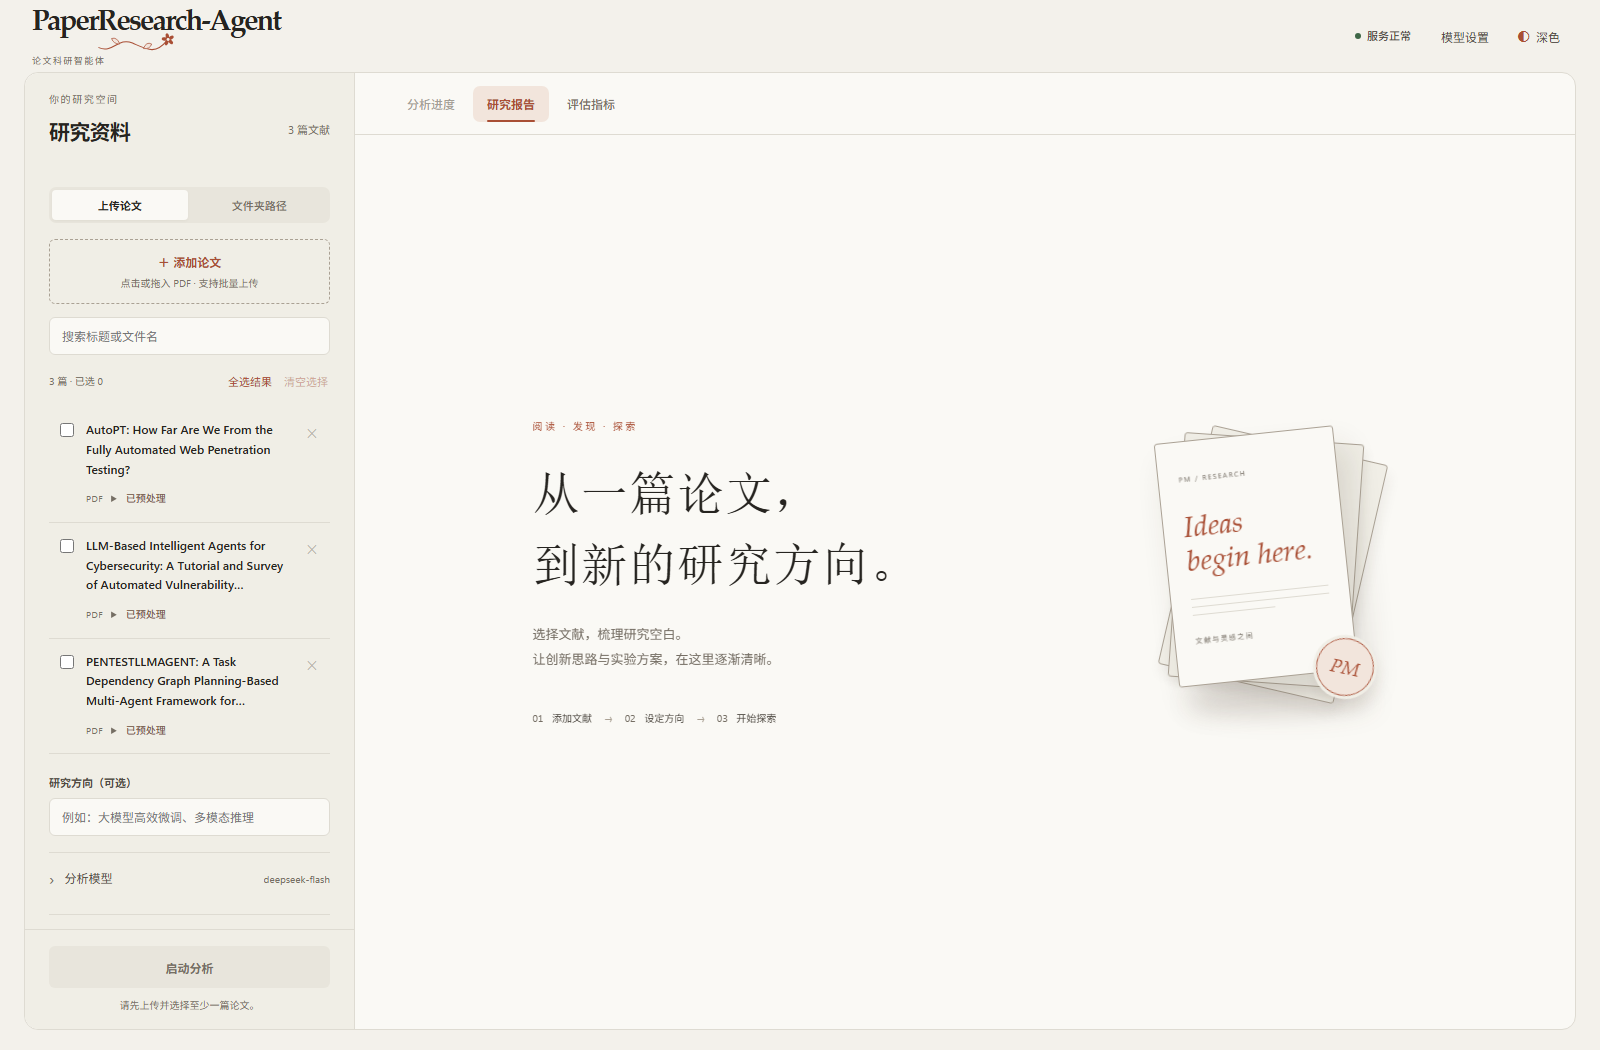
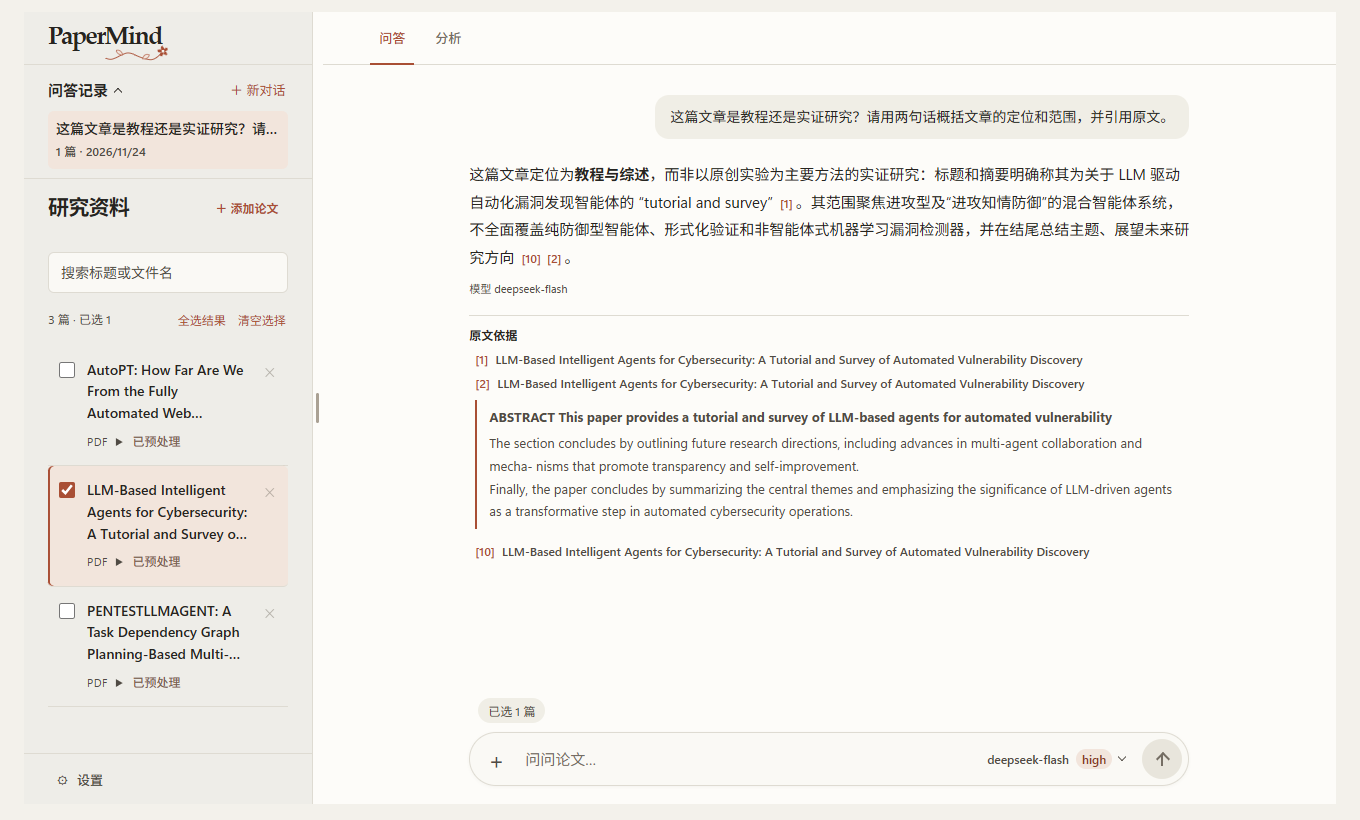
docs: streamline README and refresh workspace previews

diff --git a/README.md b/README.md
@@ -33,34 +33,29 @@
 
 ## 问答与分析工作台
 
-- **论文问答**：从论文库选定文献后提问，答案附原文片段与出处。对话历史可在侧栏重新打开。按 Enter 发送，Shift + Enter 换行。
+- **论文问答**：选定一篇或多篇论文提问，回答附原文引用，可在侧栏查看历史对话。
 - **研究分析**：从分析记录打开或追踪任务，完成后直接阅读报告，可复制全文或导出 Markdown、PDF。
 - **模型与推理强度**：在问答和新建分析的模型菜单选择模型。受支持的 DeepSeek 模型提供 low、high、max 三档。
 
 ## 界面预览
 
-以下图片于 **2026-11-21** 从当时的发布版前端截图，连接本机真实后端，读取已有论文库与已完成的 AutoPT 分析记录；没有使用模拟报告，也没有为截图重新发起模型分析。
+### 论文问答
 
-### 论文工作台
+选定一篇公开论文提问，点开引用可查看出处和原文片段。
 
-旧版截图展示论文管理、模型与研究方向，以及分析结果页面。
+![论文问答和展开的原文引用](docs/assets/workspace.png)
 
-![最新论文工作台](docs/assets/workspace.png)
+### 分析记录
 
-### 真实分析报告
+从历史列表查看任务状态，打开已完成的分析报告。
 
-报告包含背景、研究方向和实验方案，提供章节导航、成果概览、专注阅读及导出入口。
+![分析记录与任务状态](docs/assets/analysis-history.png)
 
-![真实历史研究报告](docs/assets/report.png)
+### 研究报告
 
-<details>
-<summary><strong>展开查看逐项评估界面</strong></summary>
+标题下方直接进入正文。目录、复制和导出集中在报告顶部。
 
-每条创新点展示新颖性、可行性、显著性及评分理由。页面中的分数是模型评估结果，不是人工评测或项目性能指标。
-
-![创新点逐项评估](docs/assets/evaluation.png)
-
-</details>
+![研究报告阅读页](docs/assets/report.png)
 
 ## 整体架构
 
@@ -71,7 +66,7 @@
 | 模块 | 主要职责 | 源码入口 |
 | --- | --- | --- |
 | React 工作台 | 上传、论文选择、进度订阅、报告阅读与历史切换 | [`App.tsx`](frontend/src/App.tsx) |
-| FastAPI 接口 | 创建后台任务，推送 SSE，读取报告与论文库 | [`routes.py`](backend/api/routes.py) |
+| FastAPI 接口 | 在本地启动分析任务，通过 SSE 推送进度，读取报告与论文库 | [`routes.py`](backend/api/routes.py) |
 | TaskManager | 管理本次任务状态、事件通知与持久化更新 | [`tasks.py`](backend/api/tasks.py) |
 | WorkflowOrchestrator | 组合 Controller 与后续步骤自校验，聚合结构化产物 | [`workflow.py`](backend/orchestrator/workflow.py) |
 | Controller | 固定预处理、生成后续计划、调度工具、组织上下文 | [`controller.py`](backend/orchestrator/controller.py) |
@@ -151,7 +146,7 @@ score = 0.6 × normalized_vector_score
       + 0.4 × normalized_bm25_score
 ```
 
-Chroma 保存向量与片段元数据，BM25 使用进程内索引。权重是当前配置，尚未通过独立标注集证明最优。检索相似度用于排序，不能直接当作证据是否支持某个研究空白的判断。
+Chroma 保存向量与片段元数据，BM25 使用进程内索引。权重是当前配置，尚未通过独立标注集证明最优。原文片段用于补充和追溯出处，目前尚未逐条核验它们是否支持候选研究空白。
 
 ### 3. 并发放在论文级，阶段之间保留数据依赖
 
@@ -206,7 +201,7 @@ Copy-Item .env.example .env
 
 ### 2. 配置模型
 
-在本地 `.env` 中填写自己的生成模型凭据，并准备本地 Embedding 模型：
+在本机的 `.env` 中填写 API Key，并配置 Embedding 模型。
 
 ```dotenv
 DEEPSEEK_API_KEY=
@@ -266,13 +261,3 @@ docs/assets/          界面示例截图 架构图与流程图
 .env.example          空白凭据配置样例
 run_backend.py        后端启动入口
 ```
-
-## 当前边界与后续计划
-
-- 当前是本地单进程应用，后台任务使用 `asyncio`，不是独立任务队列或多租户服务。
-- 原文片段用于补充与追溯，尚未逐条判定其对候选空白是支持、反驳还是证据不足。模型评分也不能代替人工科研判断。
-- 后续优先补充证据支持性检查、检索标注集与消融评测、缓存版本管理，以及更完整的中断恢复。
-
-## 凭据与运行数据
-
-`.env`、`data/`、上传论文、模型配置数据库、缓存、运行报告和日志由 `.gitignore` 排除。配置样例中的密钥为空，README 截图不包含密钥设置内容。原始论文和完整运行数据库未随源码发布。

diff --git a/docs/assets/README.md b/docs/assets/README.md
@@ -1,7 +1,7 @@
-# README 图像说明
+# 界面截图与架构图
 
-- `workspace.png`、`report.png`、`evaluation.png`：2026年11月21日，使用当时的发布版前端连接本机真实后端截取。论文库来自本机已有记录，报告和评估来自已经完成的 AutoPT 分析。截图未使用模拟内容，未重新启动分析，也未展示密钥设置。
-- `architecture.png`：依据当前模块与执行路径绘制的系统架构图。
-- `workflow.png`：依据当前主链路绘制的七阶段流程与中间产物图。
-
-截图只展示界面和已有结果，不构成检索准确率、模型能力或端到端性能的基准评测。
+- `workspace.png`：当前工作台对一篇公开综述论文的实际问答，展开了一条原文引用。
+- `analysis-history.png`：当前工作台的分析记录，选取已完成的公开论文分析作为展示样例。
+- `report.png`：从上述记录打开的实际研究报告。
+- `architecture.png`：系统架构图。
+- `workflow.png`：七阶段分析流程与中间产物图。
